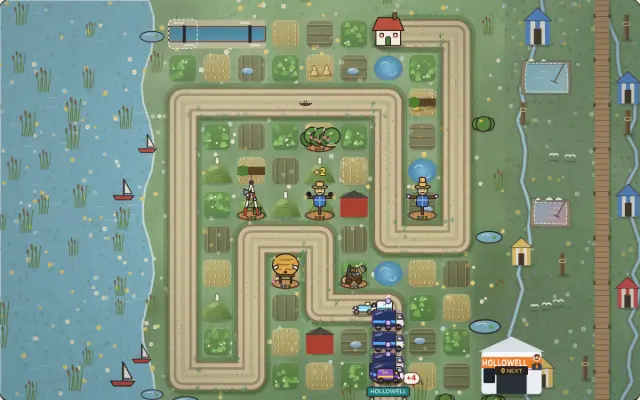
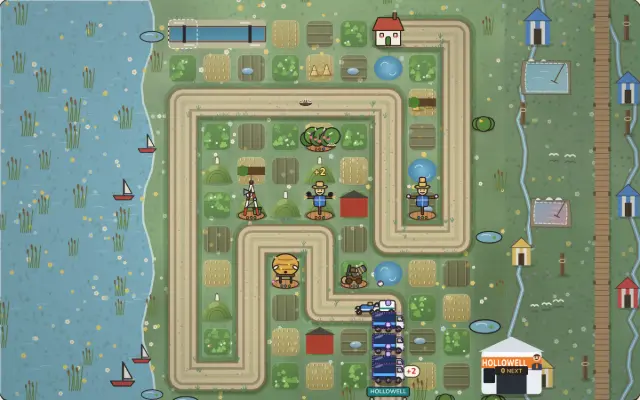
Hedgerow 3D: the Saltmarsh flats reach further out to sea (item 288 done)
Claude-Session: https://claude.ai/code/session_01SimvMN1RHBGCWN7Eo7MzhN

Changed region(s): [[0.5312, 0.75, 0.6562, 0.96]]

diff --git a/games/hedgerow/src/render3d/terrain.ts b/games/hedgerow/src/render3d/terrain.ts
@@ -1077,7 +1077,7 @@ export function buildGround(level: Level): Ground {
     const reedCols = ["#aaa65c", "#c4b26a", "#8f9a4c"].map((c) => new THREE.Color(c));
     const white = new THREE.Color("#f6f4ee");
     for (let z = -2.5; z <= rows + 2.5; z += 0.34)
-      for (let x = -1.65; x <= -0.45; x += 0.34) {
+      for (let x = -2.3; x <= -0.45; x += 0.34) {
         const jx = x + (deco() - 0.5) * 0.2;
         const jz = z + (deco() - 0.5) * 0.2;
         if (laneDistance(level, jx, jz) < 0.9) continue;

diff --git a/docs/plan/two-week-plan.md b/docs/plan/two-week-plan.md
@@ -2834,7 +2834,7 @@ The items come from fresh-eyes audits on 2026-11-01 and 2026-11-02 (items 25-32:
 - **Accept:** no empty block 120 px+ at D; resource changes animate within 250 ms (fade only under reduced motion); every value keeps its screen-reader label and focus; ui-css-lint, player-mat, action-hand and the play specs pass; shots P and D at the start and at round 5.
 - **Size:** 2
 
-## 288. [ ] Hedgerow 3D: the phone camera frames the whole lane, clean field edges *(lane B, in progress)* *(slice 1, 2026-11-08 08:47 lane B: a phone canvas (under 600 px) keeps about two in five of the air's motes (pollen and the act's weather; they read as snow over the field); the Saltmarsh verge's tide-pool patches in a damp grey-green (#97a79b; the pale #b7c3c4 read as broken white fragments). Checked: P l21's depot and the lane's entry are now in frame under the bar. biome3d, closeframe, dressing3d pass (25); key art re-shot; shots scratchpad p288cmp. Left: the default P camera from depot to home (today item 215's close frame with a Whole field button), the sea's pale edge between the verge flats, the tag off the lane)* *(08:52, decided: P keeps item 215's close frame by default (bigger plots to tap); its 'Whole field' view frames the lane from depot to home (shot scratchpad w288-P-whole). Left: the depot-docked count tag sits over the lane's entry in the whole view (`depotDock` placement ignores the lane), the sea's pale edge)*
+## 288. [x] Hedgerow 3D: the phone camera frames the whole lane, clean field edges *(done 2026-11-08 09:35 lane B)* *(slice 1, 2026-11-08 08:47 lane B: a phone canvas (under 600 px) keeps about two in five of the air's motes (pollen and the act's weather; they read as snow over the field); the Saltmarsh verge's tide-pool patches in a damp grey-green (#97a79b; the pale #b7c3c4 read as broken white fragments). Checked: P l21's depot and the lane's entry are now in frame under the bar. biome3d, closeframe, dressing3d pass (25); key art re-shot; shots scratchpad p288cmp. Left: the default P camera from depot to home (today item 215's close frame with a Whole field button), the sea's pale edge between the verge flats, the tag off the lane)* *(08:52, decided: P keeps item 215's close frame by default (bigger plots to tap); its 'Whole field' view frames the lane from depot to home (shot scratchpad w288-P-whole). Left: the depot-docked count tag sits over the lane's entry in the whole view (`depotDock` placement ignores the lane), the sea's pale edge)* *(slice 2, 2026-11-08 09:35 lane B: the Saltmarsh flats reach 0.65 cells further out to sea, so the marsh fills the phone's left edge (the sea showed through in pale gaps). Checked: the count tag sits on the field's top fence, over plots, not the lane, in both the close and whole views (shots t288cmp); a step-aside placement was tried and dropped as unneeded. biome3d, 3dframe, closeframe pass (38); P l21 draw calls 536; key art re-shot; shots scratchpad edgecmp)*
 - **Why:** `plan1108b/hedge-l21-3d-P`: the lane's entry and Hollowell's depot are off the top (0-390 x 55-120); white fragments like broken geometry fill 0-110 x 60-680, and snow-like particles cover the field; the "216 coming" tag (10-205 x 425-450) floats over the lane.
 - **Build:** a portrait camera that fits the lane from depot to home (pinch to zoom in); terrain skirts so nothing stray shows past the field; fewer particles on a phone; the incoming tag docked off the lane.
 - **Accept:** at P the whole lane from depot to home in frame (projected points within the canvas, e2e); no geometry outside the field mesh in frame; the tag clear of the lane; hedgerow 3D specs pass; shots P and D, l5 and l21.
